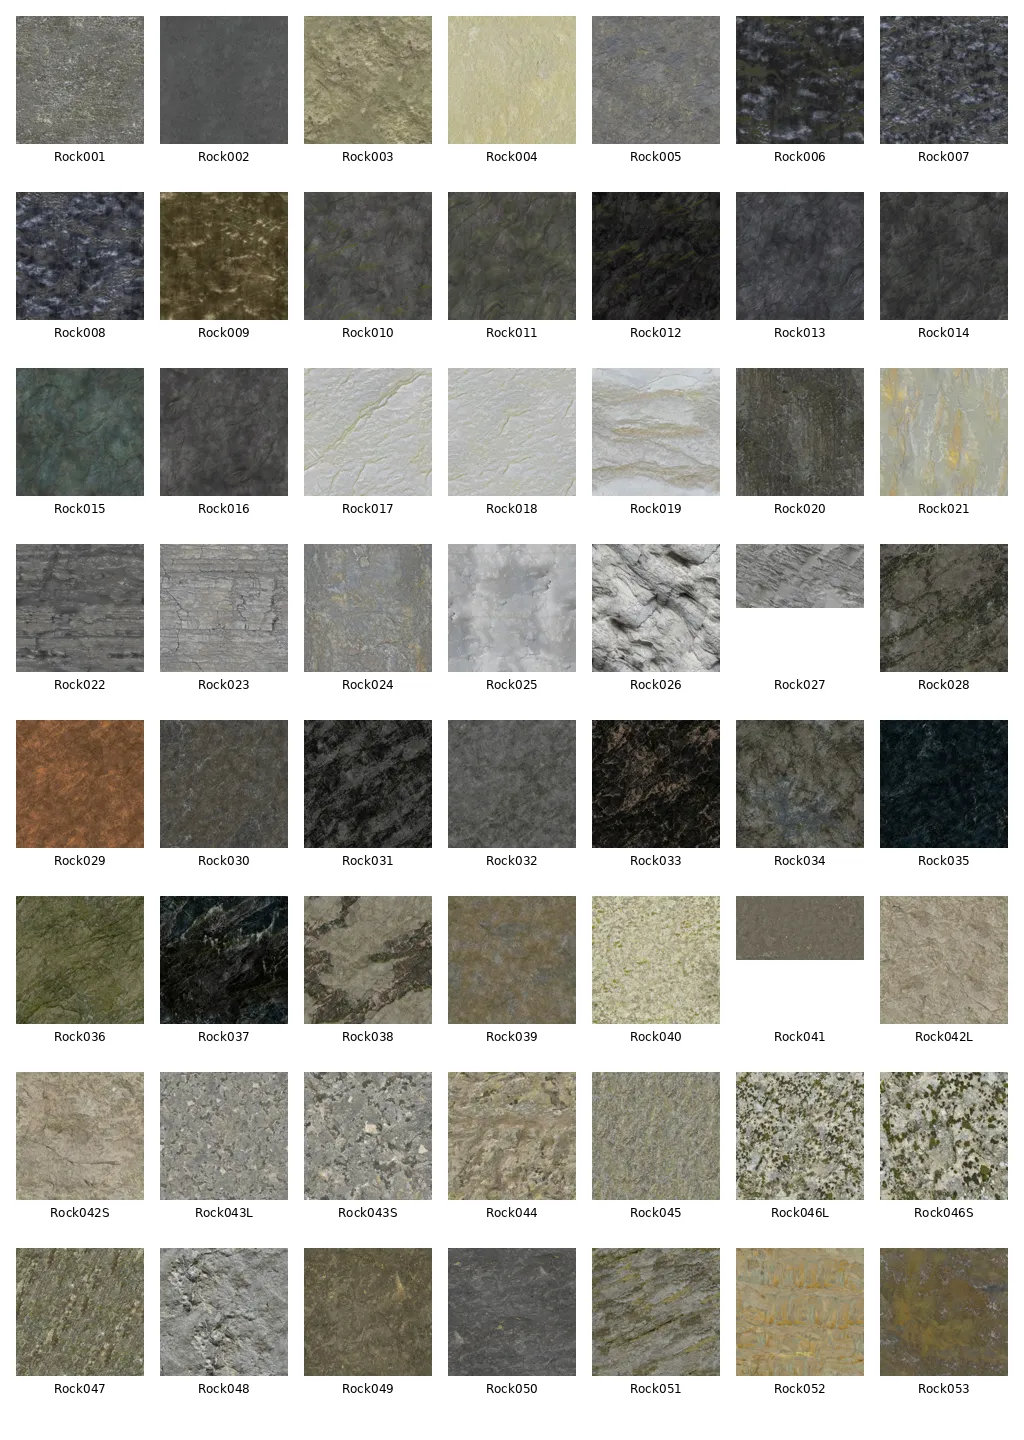
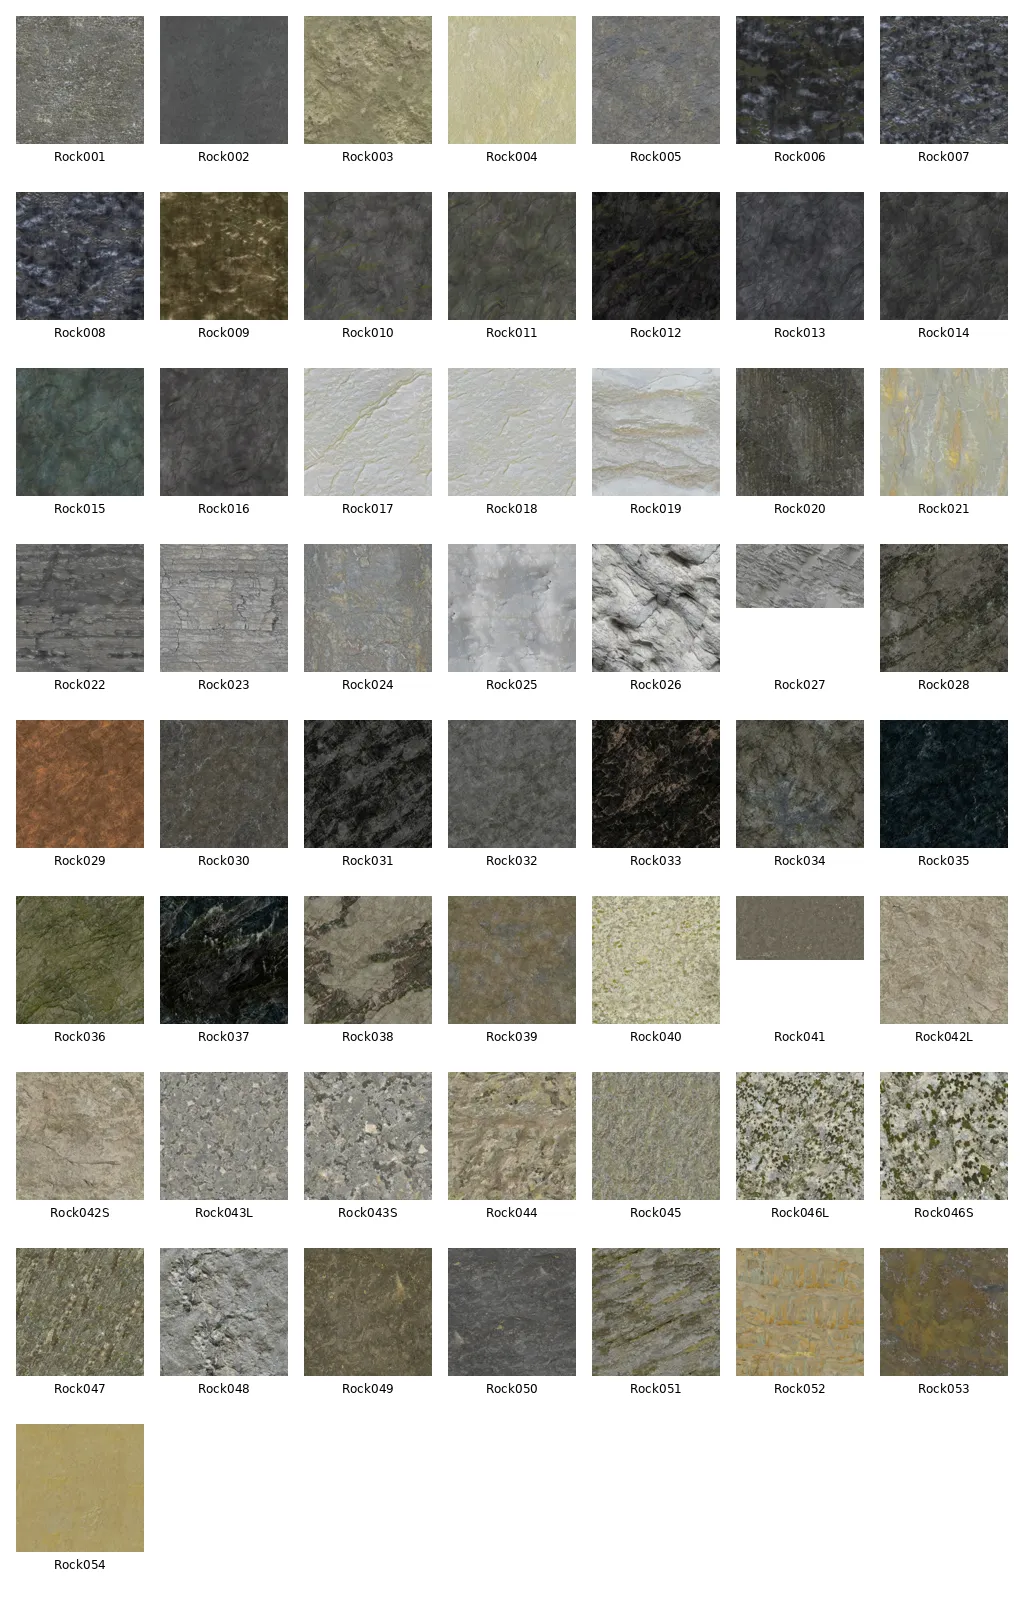
version: v2024.05.22

diff --git a/README.md b/README.md
@@ -5,19 +5,19 @@ The texture are resized to 3 sizes, so you can choose quality.
 
 3 qualities available: 256, 512 and 1024 pixels width.
 
-Current version: 2024.03.27<br>
-Total textures: 1369
+Current version: 2024.05.22<br>
+Total textures: 1375
 
 ## Install
 
 Just download the .sh3t file you want and use the texture library import feature from Sweethome3D from "Furniture" menu.
 
 
-* [ambientcg_1024.sh3t](https://fenouil-drive.mycozy.cloud/public?sharecode=QyiDq6EIACQi) - 203.9 MB
+* [ambientcg_1024.sh3t](https://fenouil-drive.mycozy.cloud/public?sharecode=QyiDq6EIACQi) - 204.7 MB
 
-* [ambientcg_512.sh3t](https://fenouil-drive.mycozy.cloud/public?sharecode=u2Ps0zAB8cij) - 53.0 MB
+* [ambientcg_512.sh3t](https://fenouil-drive.mycozy.cloud/public?sharecode=u2Ps0zAB8cij) - 53.2 MB
 
-* [ambientcg_256.sh3t](https://fenouil-drive.mycozy.cloud/public?sharecode=3gsbVKG3PFBM) - 14.0 MB
+* [ambientcg_256.sh3t](https://fenouil-drive.mycozy.cloud/public?sharecode=3gsbVKG3PFBM) - 14.1 MB
 
 
 ## Missing dimensions
@@ -56,260 +56,260 @@ The current code and content follow the same licence.
 
 ### Asphalt
 <picture>
-  <img alt="Preview of Asphalt" src="https://raw.githubusercontent.com/fabien-michel/sweethome3d-textures-ambientcg/v2024.03.27/previews/Asphalt.webp">
+  <img alt="Preview of Asphalt" src="https://raw.githubusercontent.com/fabien-michel/sweethome3d-textures-ambientcg/v2024.05.22/previews/Asphalt.webp">
 </picture>
 
 ### Bamboo
 <picture>
-  <img alt="Preview of Bamboo" src="https://raw.githubusercontent.com/fabien-michel/sweethome3d-textures-ambientcg/v2024.03.27/previews/Bamboo.webp">
+  <img alt="Preview of Bamboo" src="https://raw.githubusercontent.com/fabien-michel/sweethome3d-textures-ambientcg/v2024.05.22/previews/Bamboo.webp">
 </picture>
 
 ### Bark
 <picture>
-  <img alt="Preview of Bark" src="https://raw.githubusercontent.com/fabien-michel/sweethome3d-textures-ambientcg/v2024.03.27/previews/Bark.webp">
+  <img alt="Preview of Bark" src="https://raw.githubusercontent.com/fabien-michel/sweethome3d-textures-ambientcg/v2024.05.22/previews/Bark.webp">
 </picture>
 
 ### Bricks
 <picture>
-  <img alt="Preview of Bricks" src="https://raw.githubusercontent.com/fabien-michel/sweethome3d-textures-ambientcg/v2024.03.27/previews/Bricks.webp">
+  <img alt="Preview of Bricks" src="https://raw.githubusercontent.com/fabien-michel/sweethome3d-textures-ambientcg/v2024.05.22/previews/Bricks.webp">
 </picture>
 
 ### Cardboard
 <picture>
-  <img alt="Preview of Cardboard" src="https://raw.githubusercontent.com/fabien-michel/sweethome3d-textures-ambientcg/v2024.03.27/previews/Cardboard.webp">
+  <img alt="Preview of Cardboard" src="https://raw.githubusercontent.com/fabien-michel/sweethome3d-textures-ambientcg/v2024.05.22/previews/Cardboard.webp">
 </picture>
 
 ### Carpet
 <picture>
-  <img alt="Preview of Carpet" src="https://raw.githubusercontent.com/fabien-michel/sweethome3d-textures-ambientcg/v2024.03.27/previews/Carpet.webp">
+  <img alt="Preview of Carpet" src="https://raw.githubusercontent.com/fabien-michel/sweethome3d-textures-ambientcg/v2024.05.22/previews/Carpet.webp">
 </picture>
 
 ### Chainmail
 <picture>
-  <img alt="Preview of Chainmail" src="https://raw.githubusercontent.com/fabien-michel/sweethome3d-textures-ambientcg/v2024.03.27/previews/Chainmail.webp">
+  <img alt="Preview of Chainmail" src="https://raw.githubusercontent.com/fabien-michel/sweethome3d-textures-ambientcg/v2024.05.22/previews/Chainmail.webp">
 </picture>
 
 ### Chipboard
 <picture>
-  <img alt="Preview of Chipboard" src="https://raw.githubusercontent.com/fabien-michel/sweethome3d-textures-ambientcg/v2024.03.27/previews/Chipboard.webp">
+  <img alt="Preview of Chipboard" src="https://raw.githubusercontent.com/fabien-michel/sweethome3d-textures-ambientcg/v2024.05.22/previews/Chipboard.webp">
 </picture>
 
 ### Clay
 <picture>
-  <img alt="Preview of Clay" src="https://raw.githubusercontent.com/fabien-michel/sweethome3d-textures-ambientcg/v2024.03.27/previews/Clay.webp">
+  <img alt="Preview of Clay" src="https://raw.githubusercontent.com/fabien-michel/sweethome3d-textures-ambientcg/v2024.05.22/previews/Clay.webp">
 </picture>
 
 ### Concrete
 <picture>
-  <img alt="Preview of Concrete" src="https://raw.githubusercontent.com/fabien-michel/sweethome3d-textures-ambientcg/v2024.03.27/previews/Concrete.webp">
+  <img alt="Preview of Concrete" src="https://raw.githubusercontent.com/fabien-michel/sweethome3d-textures-ambientcg/v2024.05.22/previews/Concrete.webp">
 </picture>
 
 ### Cork
 <picture>
-  <img alt="Preview of Cork" src="https://raw.githubusercontent.com/fabien-michel/sweethome3d-textures-ambientcg/v2024.03.27/previews/Cork.webp">
+  <img alt="Preview of Cork" src="https://raw.githubusercontent.com/fabien-michel/sweethome3d-textures-ambientcg/v2024.05.22/previews/Cork.webp">
 </picture>
 
 ### CorrugatedSteel
 <picture>
-  <img alt="Preview of CorrugatedSteel" src="https://raw.githubusercontent.com/fabien-michel/sweethome3d-textures-ambientcg/v2024.03.27/previews/CorrugatedSteel.webp">
+  <img alt="Preview of CorrugatedSteel" src="https://raw.githubusercontent.com/fabien-michel/sweethome3d-textures-ambientcg/v2024.05.22/previews/CorrugatedSteel.webp">
 </picture>
 
 ### DiamondPlate
 <picture>
-  <img alt="Preview of DiamondPlate" src="https://raw.githubusercontent.com/fabien-michel/sweethome3d-textures-ambientcg/v2024.03.27/previews/DiamondPlate.webp">
+  <img alt="Preview of DiamondPlate" src="https://raw.githubusercontent.com/fabien-michel/sweethome3d-textures-ambientcg/v2024.05.22/previews/DiamondPlate.webp">
 </picture>
 
 ### Fabric
 <picture>
-  <img alt="Preview of Fabric" src="https://raw.githubusercontent.com/fabien-michel/sweethome3d-textures-ambientcg/v2024.03.27/previews/Fabric.webp">
+  <img alt="Preview of Fabric" src="https://raw.githubusercontent.com/fabien-michel/sweethome3d-textures-ambientcg/v2024.05.22/previews/Fabric.webp">
 </picture>
 
 ### Foil
 <picture>
-  <img alt="Preview of Foil" src="https://raw.githubusercontent.com/fabien-michel/sweethome3d-textures-ambientcg/v2024.03.27/previews/Foil.webp">
+  <img alt="Preview of Foil" src="https://raw.githubusercontent.com/fabien-michel/sweethome3d-textures-ambientcg/v2024.05.22/previews/Foil.webp">
 </picture>
 
 ### GlazedTerracotta
 <picture>
-  <img alt="Preview of GlazedTerracotta" src="https://raw.githubusercontent.com/fabien-michel/sweethome3d-textures-ambientcg/v2024.03.27/previews/GlazedTerracotta.webp">
+  <img alt="Preview of GlazedTerracotta" src="https://raw.githubusercontent.com/fabien-michel/sweethome3d-textures-ambientcg/v2024.05.22/previews/GlazedTerracotta.webp">
 </picture>
 
 ### Granite
 <picture>
-  <img alt="Preview of Granite" src="https://raw.githubusercontent.com/fabien-michel/sweethome3d-textures-ambientcg/v2024.03.27/previews/Granite.webp">
+  <img alt="Preview of Granite" src="https://raw.githubusercontent.com/fabien-michel/sweethome3d-textures-ambientcg/v2024.05.22/previews/Granite.webp">
 </picture>
 
 ### Grass
 <picture>
-  <img alt="Preview of Grass" src="https://raw.githubusercontent.com/fabien-michel/sweethome3d-textures-ambientcg/v2024.03.27/previews/Grass.webp">
+  <img alt="Preview of Grass" src="https://raw.githubusercontent.com/fabien-michel/sweethome3d-textures-ambientcg/v2024.05.22/previews/Grass.webp">
 </picture>
 
 ### Gravel
 <picture>
-  <img alt="Preview of Gravel" src="https://raw.githubusercontent.com/fabien-michel/sweethome3d-textures-ambientcg/v2024.03.27/previews/Gravel.webp">
+  <img alt="Preview of Gravel" src="https://raw.githubusercontent.com/fabien-michel/sweethome3d-textures-ambientcg/v2024.05.22/previews/Gravel.webp">
 </picture>
 
 ### Ground
 <picture>
-  <img alt="Preview of Ground" src="https://raw.githubusercontent.com/fabien-michel/sweethome3d-textures-ambientcg/v2024.03.27/previews/Ground.webp">
+  <img alt="Preview of Ground" src="https://raw.githubusercontent.com/fabien-michel/sweethome3d-textures-ambientcg/v2024.05.22/previews/Ground.webp">
 </picture>
 
 ### Logs
 <picture>
-  <img alt="Preview of Logs" src="https://raw.githubusercontent.com/fabien-michel/sweethome3d-textures-ambientcg/v2024.03.27/previews/Logs.webp">
+  <img alt="Preview of Logs" src="https://raw.githubusercontent.com/fabien-michel/sweethome3d-textures-ambientcg/v2024.05.22/previews/Logs.webp">
 </picture>
 
 ### Marble
 <picture>
-  <img alt="Preview of Marble" src="https://raw.githubusercontent.com/fabien-michel/sweethome3d-textures-ambientcg/v2024.03.27/previews/Marble.webp">
+  <img alt="Preview of Marble" src="https://raw.githubusercontent.com/fabien-michel/sweethome3d-textures-ambientcg/v2024.05.22/previews/Marble.webp">
 </picture>
 
 ### Metal
 <picture>
-  <img alt="Preview of Metal" src="https://raw.githubusercontent.com/fabien-michel/sweethome3d-textures-ambientcg/v2024.03.27/previews/Metal.webp">
+  <img alt="Preview of Metal" src="https://raw.githubusercontent.com/fabien-michel/sweethome3d-textures-ambientcg/v2024.05.22/previews/Metal.webp">
 </picture>
 
 ### Moss
 <picture>
-  <img alt="Preview of Moss" src="https://raw.githubusercontent.com/fabien-michel/sweethome3d-textures-ambientcg/v2024.03.27/previews/Moss.webp">
+  <img alt="Preview of Moss" src="https://raw.githubusercontent.com/fabien-michel/sweethome3d-textures-ambientcg/v2024.05.22/previews/Moss.webp">
 </picture>
 
 ### Net
 <picture>
-  <img alt="Preview of Net" src="https://raw.githubusercontent.com/fabien-michel/sweethome3d-textures-ambientcg/v2024.03.27/previews/Net.webp">
+  <img alt="Preview of Net" src="https://raw.githubusercontent.com/fabien-michel/sweethome3d-textures-ambientcg/v2024.05.22/previews/Net.webp">
 </picture>
 
 ### OfficeCeiling
 <picture>
-  <img alt="Preview of OfficeCeiling" src="https://raw.githubusercontent.com/fabien-michel/sweethome3d-textures-ambientcg/v2024.03.27/previews/OfficeCeiling.webp">
+  <img alt="Preview of OfficeCeiling" src="https://raw.githubusercontent.com/fabien-michel/sweethome3d-textures-ambientcg/v2024.05.22/previews/OfficeCeiling.webp">
 </picture>
 
 ### Paint
 <picture>
-  <img alt="Preview of Paint" src="https://raw.githubusercontent.com/fabien-michel/sweethome3d-textures-ambientcg/v2024.03.27/previews/Paint.webp">
+  <img alt="Preview of Paint" src="https://raw.githubusercontent.com/fabien-michel/sweethome3d-textures-ambientcg/v2024.05.22/previews/Paint.webp">
 </picture>
 
 ### Paper
 <picture>
-  <img alt="Preview of Paper" src="https://raw.githubusercontent.com/fabien-michel/sweethome3d-textures-ambientcg/v2024.03.27/previews/Paper.webp">
+  <img alt="Preview of Paper" src="https://raw.githubusercontent.com/fabien-michel/sweethome3d-textures-ambientcg/v2024.05.22/previews/Paper.webp">
 </picture>
 
 ### PavingStones
 <picture>
-  <img alt="Preview of PavingStones" src="https://raw.githubusercontent.com/fabien-michel/sweethome3d-textures-ambientcg/v2024.03.27/previews/PavingStones.webp">
+  <img alt="Preview of PavingStones" src="https://raw.githubusercontent.com/fabien-michel/sweethome3d-textures-ambientcg/v2024.05.22/previews/PavingStones.webp">
 </picture>
 
 ### Planks
 <picture>
-  <img alt="Preview of Planks" src="https://raw.githubusercontent.com/fabien-michel/sweethome3d-textures-ambientcg/v2024.03.27/previews/Planks.webp">
+  <img alt="Preview of Planks" src="https://raw.githubusercontent.com/fabien-michel/sweethome3d-textures-ambientcg/v2024.05.22/previews/Planks.webp">
 </picture>
 
 ### Plaster
 <picture>
-  <img alt="Preview of Plaster" src="https://raw.githubusercontent.com/fabien-michel/sweethome3d-textures-ambientcg/v2024.03.27/previews/Plaster.webp">
+  <img alt="Preview of Plaster" src="https://raw.githubusercontent.com/fabien-michel/sweethome3d-textures-ambientcg/v2024.05.22/previews/Plaster.webp">
 </picture>
 
 ### Plastic
 <picture>
-  <img alt="Preview of Plastic" src="https://raw.githubusercontent.com/fabien-michel/sweethome3d-textures-ambientcg/v2024.03.27/previews/Plastic.webp">
+  <img alt="Preview of Plastic" src="https://raw.githubusercontent.com/fabien-michel/sweethome3d-textures-ambientcg/v2024.05.22/previews/Plastic.webp">
 </picture>
 
 ### Porcelain
 <picture>
-  <img alt="Preview of Porcelain" src="https://raw.githubusercontent.com/fabien-michel/sweethome3d-textures-ambientcg/v2024.03.27/previews/Porcelain.webp">
+  <img alt="Preview of Porcelain" src="https://raw.githubusercontent.com/fabien-michel/sweethome3d-textures-ambientcg/v2024.05.22/previews/Porcelain.webp">
 </picture>
 
 ### Road
 <picture>
-  <img alt="Preview of Road" src="https://raw.githubusercontent.com/fabien-michel/sweethome3d-textures-ambientcg/v2024.03.27/previews/Road.webp">
+  <img alt="Preview of Road" src="https://raw.githubusercontent.com/fabien-michel/sweethome3d-textures-ambientcg/v2024.05.22/previews/Road.webp">
 </picture>
 
 ### Rock
 <picture>
-  <img alt="Preview of Rock" src="https://raw.githubusercontent.com/fabien-michel/sweethome3d-textures-ambientcg/v2024.03.27/previews/Rock.webp">
+  <img alt="Preview of Rock" src="https://raw.githubusercontent.com/fabien-michel/sweethome3d-textures-ambientcg/v2024.05.22/previews/Rock.webp">
 </picture>
 
 ### Rocks
 <picture>
-  <img alt="Preview of Rocks" src="https://raw.githubusercontent.com/fabien-michel/sweethome3d-textures-ambientcg/v2024.03.27/previews/Rocks.webp">
+  <img alt="Preview of Rocks" src="https://raw.githubusercontent.com/fabien-michel/sweethome3d-textures-ambientcg/v2024.05.22/previews/Rocks.webp">
 </picture>
 
 ### RoofingTiles
 <picture>
-  <img alt="Preview of RoofingTiles" src="https://raw.githubusercontent.com/fabien-michel/sweethome3d-textures-ambientcg/v2024.03.27/previews/RoofingTiles.webp">
+  <img alt="Preview of RoofingTiles" src="https://raw.githubusercontent.com/fabien-michel/sweethome3d-textures-ambientcg/v2024.05.22/previews/RoofingTiles.webp">
 </picture>
 
 ### Rubber
 <picture>
-  <img alt="Preview of Rubber" src="https://raw.githubusercontent.com/fabien-michel/sweethome3d-textures-ambientcg/v2024.03.27/previews/Rubber.webp">
+  <img alt="Preview of Rubber" src="https://raw.githubusercontent.com/fabien-michel/sweethome3d-textures-ambientcg/v2024.05.22/previews/Rubber.webp">
 </picture>
 
 ### Rust
 <picture>
-  <img alt="Preview of Rust" src="https://raw.githubusercontent.com/fabien-michel/sweethome3d-textures-ambientcg/v2024.03.27/previews/Rust.webp">
+  <img alt="Preview of Rust" src="https://raw.githubusercontent.com/fabien-michel/sweethome3d-textures-ambientcg/v2024.05.22/previews/Rust.webp">
 </picture>
 
 ### ScatteredLeaves
 <picture>
-  <img alt="Preview of ScatteredLeaves" src="https://raw.githubusercontent.com/fabien-michel/sweethome3d-textures-ambientcg/v2024.03.27/previews/ScatteredLeaves.webp">
+  <img alt="Preview of ScatteredLeaves" src="https://raw.githubusercontent.com/fabien-michel/sweethome3d-textures-ambientcg/v2024.05.22/previews/ScatteredLeaves.webp">
 </picture>
 
 ### Snow
 <picture>
-  <img alt="Preview of Snow" src="https://raw.githubusercontent.com/fabien-michel/sweethome3d-textures-ambientcg/v2024.03.27/previews/Snow.webp">
+  <img alt="Preview of Snow" src="https://raw.githubusercontent.com/fabien-michel/sweethome3d-textures-ambientcg/v2024.05.22/previews/Snow.webp">
 </picture>
 
 ### SolarPanel
 <picture>
-  <img alt="Preview of SolarPanel" src="https://raw.githubusercontent.com/fabien-michel/sweethome3d-textures-ambientcg/v2024.03.27/previews/SolarPanel.webp">
+  <img alt="Preview of SolarPanel" src="https://raw.githubusercontent.com/fabien-michel/sweethome3d-textures-ambientcg/v2024.05.22/previews/SolarPanel.webp">
 </picture>
 
 ### Tatami
 <picture>
-  <img alt="Preview of Tatami" src="https://raw.githubusercontent.com/fabien-michel/sweethome3d-textures-ambientcg/v2024.03.27/previews/Tatami.webp">
+  <img alt="Preview of Tatami" src="https://raw.githubusercontent.com/fabien-michel/sweethome3d-textures-ambientcg/v2024.05.22/previews/Tatami.webp">
 </picture>
 
 ### Terrazzo
 <picture>
-  <img alt="Preview of Terrazzo" src="https://raw.githubusercontent.com/fabien-michel/sweethome3d-textures-ambientcg/v2024.03.27/previews/Terrazzo.webp">
+  <img alt="Preview of Terrazzo" src="https://raw.githubusercontent.com/fabien-michel/sweethome3d-textures-ambientcg/v2024.05.22/previews/Terrazzo.webp">
 </picture>
 
 ### ThatchedRoof
 <picture>
-  <img alt="Preview of ThatchedRoof" src="https://raw.githubusercontent.com/fabien-michel/sweethome3d-textures-ambientcg/v2024.03.27/previews/ThatchedRoof.webp">
+  <img alt="Preview of ThatchedRoof" src="https://raw.githubusercontent.com/fabien-michel/sweethome3d-textures-ambientcg/v2024.05.22/previews/ThatchedRoof.webp">
 </picture>
 
 ### Tiles
 <picture>
-  <img alt="Preview of Tiles" src="https://raw.githubusercontent.com/fabien-michel/sweethome3d-textures-ambientcg/v2024.03.27/previews/Tiles.webp">
+  <img alt="Preview of Tiles" src="https://raw.githubusercontent.com/fabien-michel/sweethome3d-textures-ambientcg/v2024.05.22/previews/Tiles.webp">
 </picture>
 
 ### Travertine
 <picture>
-  <img alt="Preview of Travertine" src="https://raw.githubusercontent.com/fabien-michel/sweethome3d-textures-ambientcg/v2024.03.27/previews/Travertine.webp">
+  <img alt="Preview of Travertine" src="https://raw.githubusercontent.com/fabien-michel/sweethome3d-textures-ambientcg/v2024.05.22/previews/Travertine.webp">
 </picture>
 
 ### Wallpaper
 <picture>
-  <img alt="Preview of Wallpaper" src="https://raw.githubusercontent.com/fabien-michel/sweethome3d-textures-ambientcg/v2024.03.27/previews/Wallpaper.webp">
+  <img alt="Preview of Wallpaper" src="https://raw.githubusercontent.com/fabien-michel/sweethome3d-textures-ambientcg/v2024.05.22/previews/Wallpaper.webp">
 </picture>
 
 ### Wood
 <picture>
-  <img alt="Preview of Wood" src="https://raw.githubusercontent.com/fabien-michel/sweethome3d-textures-ambientcg/v2024.03.27/previews/Wood.webp">
+  <img alt="Preview of Wood" src="https://raw.githubusercontent.com/fabien-michel/sweethome3d-textures-ambientcg/v2024.05.22/previews/Wood.webp">
 </picture>
 
 ### WoodChips
 <picture>
-  <img alt="Preview of WoodChips" src="https://raw.githubusercontent.com/fabien-michel/sweethome3d-textures-ambientcg/v2024.03.27/previews/WoodChips.webp">
+  <img alt="Preview of WoodChips" src="https://raw.githubusercontent.com/fabien-michel/sweethome3d-textures-ambientcg/v2024.05.22/previews/WoodChips.webp">
 </picture>
 
 ### WoodFloor
 <picture>
-  <img alt="Preview of WoodFloor" src="https://raw.githubusercontent.com/fabien-michel/sweethome3d-textures-ambientcg/v2024.03.27/previews/WoodFloor.webp">
+  <img alt="Preview of WoodFloor" src="https://raw.githubusercontent.com/fabien-michel/sweethome3d-textures-ambientcg/v2024.05.22/previews/WoodFloor.webp">
 </picture>
 
 ### WoodSiding
 <picture>
-  <img alt="Preview of WoodSiding" src="https://raw.githubusercontent.com/fabien-michel/sweethome3d-textures-ambientcg/v2024.03.27/previews/WoodSiding.webp">
+  <img alt="Preview of WoodSiding" src="https://raw.githubusercontent.com/fabien-michel/sweethome3d-textures-ambientcg/v2024.05.22/previews/WoodSiding.webp">
 </picture>
